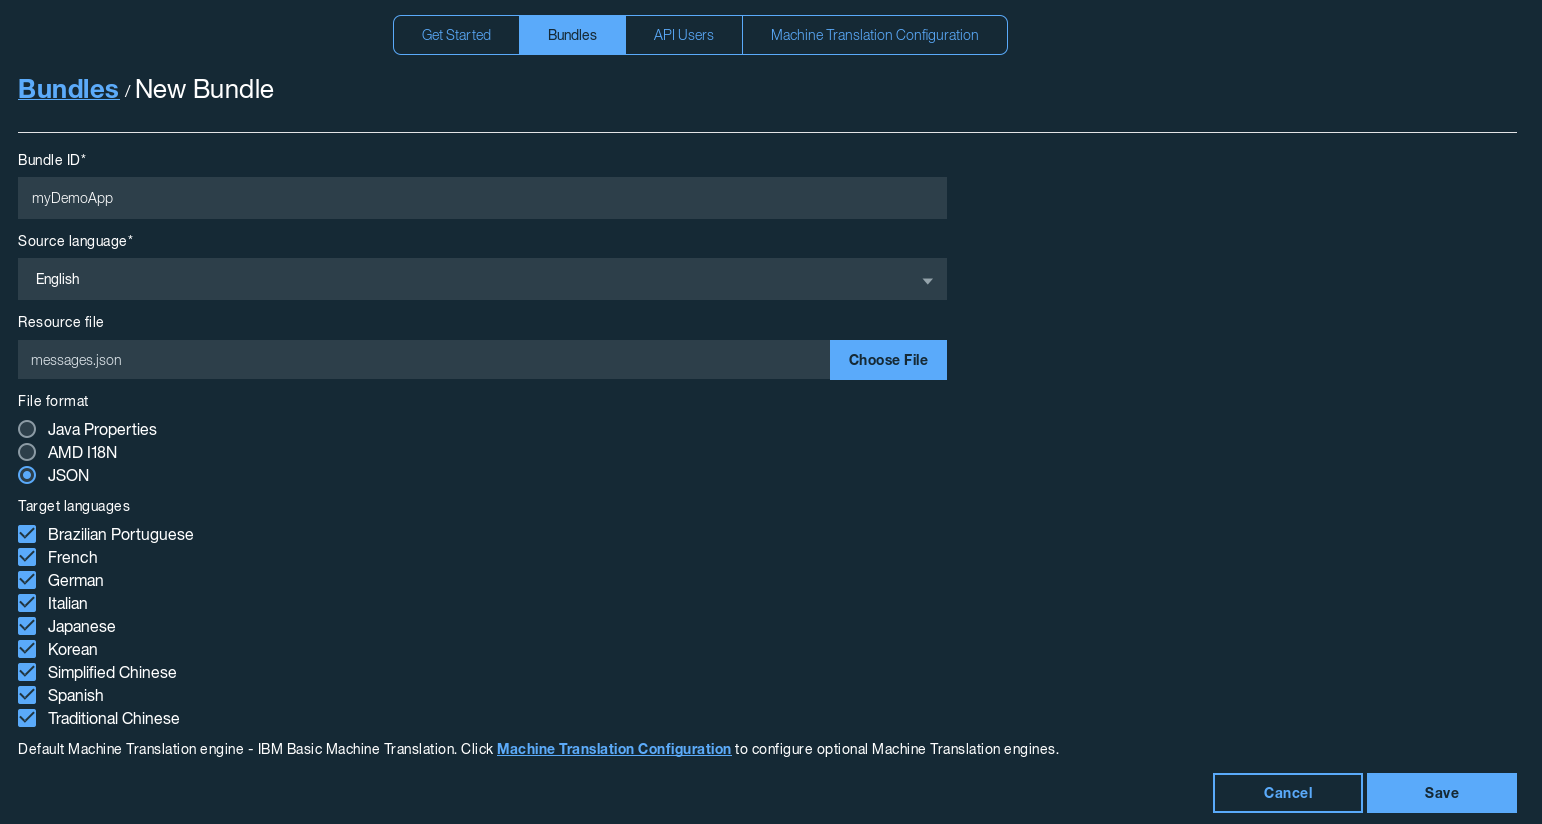
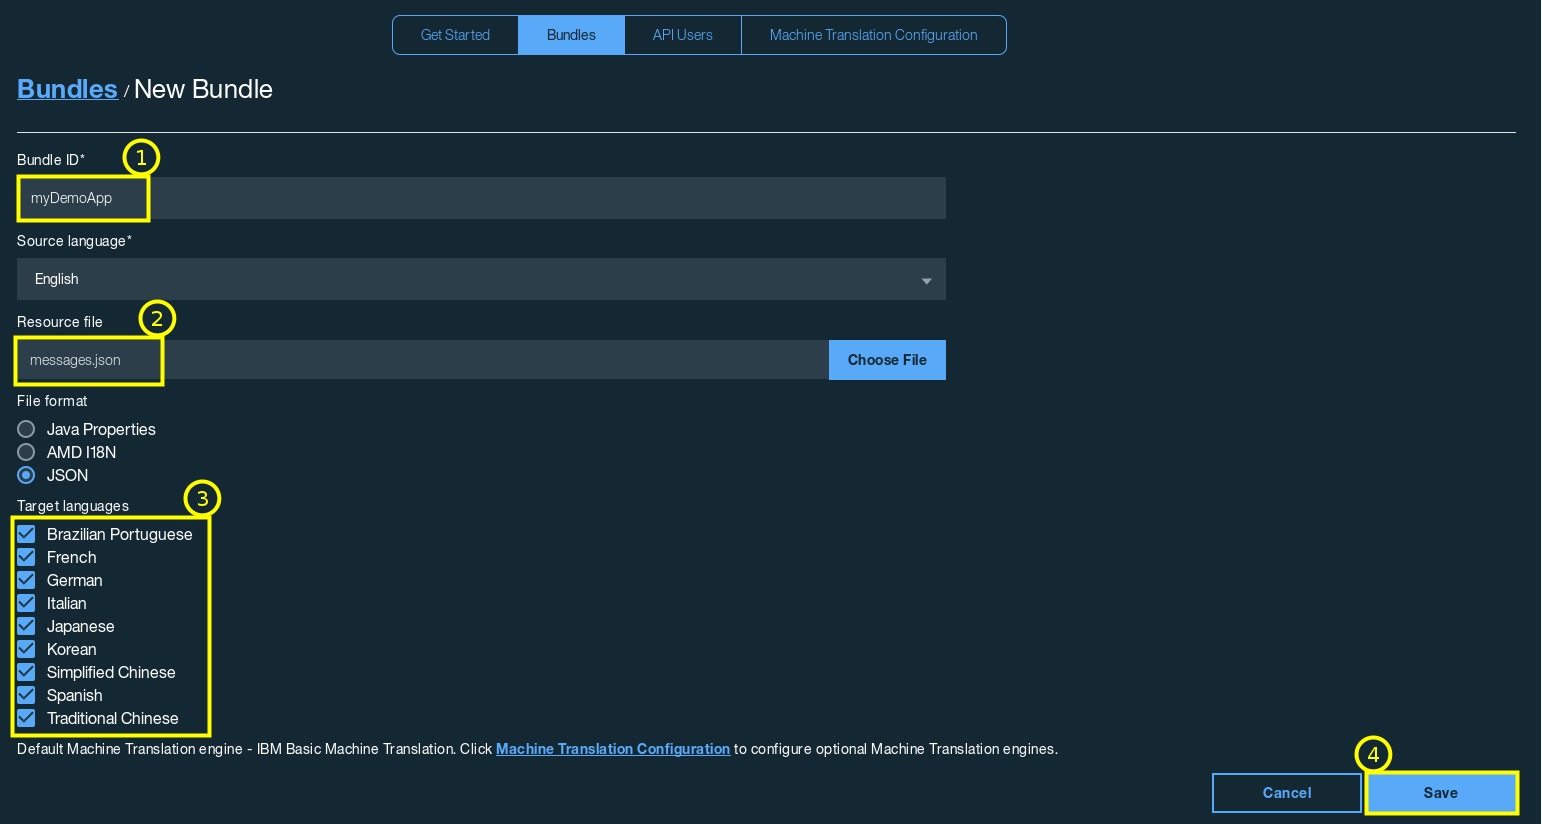
quick start guide clean up

diff --git a/README.md b/README.md
@@ -1,13 +1,17 @@
 Globalization Pipeline
 ======================
 
-![Globalization Pipeline Logo](images/icon.png "Globalization Pipeline")
+<!-- ![Globalization Pipeline Logo](images/icon.png "Globalization Pipeline") -->
+
+<p align="center">
+  <img src="images/icon.png"/>
+</p>
 
 
 IBM Globalization Pipeline is a DevOps integrated application translation management service that you can use to rapidly translate and release cloud and mobile applications to your global customers. Access IBM Globalization Pipeline capabilities through its dashboard, RESTful API, or integrate it seamlessly into your application's Delivery Pipeline.
 
-This repo contains common files and information for the
-[IBM Globalization Pipeline](https://www.ng.bluemix.net/docs/#services/GlobalizationPipeline/index.html) service and related projects.
+This repository contains common files and information for the
+[IBM Globalization Pipeline](https://www.ng.bluemix.net/docs/#services/GlobalizationPipeline/index.html) service and related tools.
 
 Quick Start Guide
 -----------------
@@ -16,13 +20,15 @@ Below are some steps to help you quickly get started. For more detailed informat
 **Lets get started!**
 
 ### 1. Create a new Globalization Pipeline service instance
-Head to the Bluemix catalog and find the Globalization Pipeline service, it should be under the DevOps category.
+Head to the [Bluemix Catalog](https://new-console.ng.bluemix.net/catalog/) and look for the Globalization Pipeline service - it should be under the DevOps category.
 
-Note: if you see two catalog entries for Globalization Pipeline, ignore the Beta one since it will be removed soon.
+**Note:** if you see two catalog entries for Globalization Pipeline, ignore the *Beta* one since it will be removed soon.
 
 ![Bluemix Catalog](images/catalog.png "Globalization Pipeline")
 
-Once you click the service icon, you should be taken to the Globalization Pipeline service page where you will find more information about the service. On this page:
+Once you click the service icon, you should be taken to the Globalization Pipeline service page where you will find more information about the service.
+
+On this page:
 
 1. Provide a name for your service instance
 2. Connect to an application (optional)
@@ -32,21 +38,26 @@ Once you click the service icon, you should be taken to the Globalization Pipeli
 ![Bluemix Catalog Entry](images/catalog-entry.png "Globalization Pipeline catalog entry")
 
 ### 2. Globalization Pipeline Dashboard
-Click on the new service instance to go to the Globalization Pipeline Dashboard.
+Click on the new service instance to go to the Globalization Pipeline **Dashboard**.
 
 ![Globalization Pipeline Dashboard](images/dashboard-overview.png "Globalization Pipeline Dashboard")
 
-1. The *Getting Started* tab provides some general information about the service and some useful links.
-2. The *Bundles* tab allows you to view your bundles and create new bundles.
-3. The *API User* tab allows you to create new users with different levels of access to the service instance.
-4. The *Machine Translation Configuration* tab can be used to configure additional Machine Translation engines from other providers.
+1. The **Getting Started** tab provides some general information about the service and some useful links.
+2. The **Bundles** tab allows you to view your bundles and create new bundles.
+3. The **API Users** tab allows you to create new users with different levels of access to the service instance.
+4. The **Machine Translation Configuration** tab can be used to configure additional Machine Translation engines from other providers, such as [Watson Language Translation](https://new-console.ng.bluemix.net/catalog/services/language-translation/).
 
 ### 3. New Bundle
-Lets go ahead and create a new Bundle. Click the *New Bundle* button and then fill in the new Bundle's information:
+Lets go ahead and create a new Bundle. Click the **New Bundle** button and then fill in the new Bundle's information:
 
 ![New Bundle](images/new-bundle.png "New Bundle")
 
-The messages we want translated to the target languages are in `messages.json`:
+1. Give the Bundle a unique name so it can be identified later
+2. Provide the Resource file that contains your messages
+3. Select the Target languages
+4. Click Save
+
+In the example above, `messages.json` contains:
 
 ```json
 {
@@ -56,32 +67,32 @@ The messages we want translated to the target languages are in `messages.json`:
 }
 ```
 
-Click Save and then select the new Bundle from the list to view the Bundle details.
+Now that the new Bundle is created, select it from the Bundles list to view the Bundle details.
 
 ![Bundle Details](images/bundle-details.png "Bundle Details")
 
-You can now click on one of the target languages to view the messages translated in that language. For example, Japanese:
+You can now click on one of the Target languages to view the  translated messages in that language. For example, Japanese:
 
 ![Translated Messages](images/translated-messages.png "Translated Messages")
 
-You can now download the translated messages by clicking the *DOWNLOAD* button. Or you can access the translated messages directly in your app by using one of the SDKs. To get started with the SDKs, head to the [next section below](#download).
+You can now download the translated messages by clicking the **DOWNLOAD** button. Or you can access the translated messages directly in your app by using one of the SDKs or Plug-ins. To get started, head to the [SDKs and Plug-ins section](#download) below.
 
 ### 4. Credentials
-To see the credentials for the service instance, click *View Credentials*:
+In order to access the service instance through the RESTful API, SDKs, or Plug-ins, you will need to provide the necessary credentials. To see the credentials, find the service instance in the Bluemix dashboard and click **View Credentials**:
 
 ![New Instance](images/new-instance.png "New Instance")
 
 ![Credentials](images/creds.png "Credentials")
 
-This information can be provided to the SDKs to access the service instance. Note however, that if the service instance is connected to an application on Blumix, the SDKs will automatically grab this information.
+**Note:** If the service instance is connected to an app on Bluemix, the credentials can be accessed from the app's environment variables - the SDKs automatically take care of this.
 
-Caution! The default credentials shown above provide complete access to the service instance, including the ability to delete and modify bundles. When you are using the service in a production app, it is recommended that you create a new *Reader* account through the *API Users* tab. The Reader account can only read bundle data.
+**Caution!** The default credentials shown above provide complete access to the service instance, including the ability to delete and modify bundles. When you are using the service in a production app, it is recommended that you create a new **Reader** account through the **API Users** tab. The Reader account can only read bundle data.
 
 <!-- the download anchor is required for backwards compatibility  -->
-SDKs<a name="download"></a>
----------------------------
+SDKs and Plug-ins<a name="download"></a>
+----------------------------------------
 
-There are a number of SDKs available for this service. Select one below for more details on how to use it.
+There are a number of SDKs/Plug-ins available for this service. Select one below for more details on how to use it.
 
 * Python: [SDK](https://github.com/IBM-Bluemix/gp-python-client)
 * Java: [SDK](https://github.com/IBM-Bluemix/gp-java-client) | [Tools](https://github.com/IBM-Bluemix/gp-java-tools)
